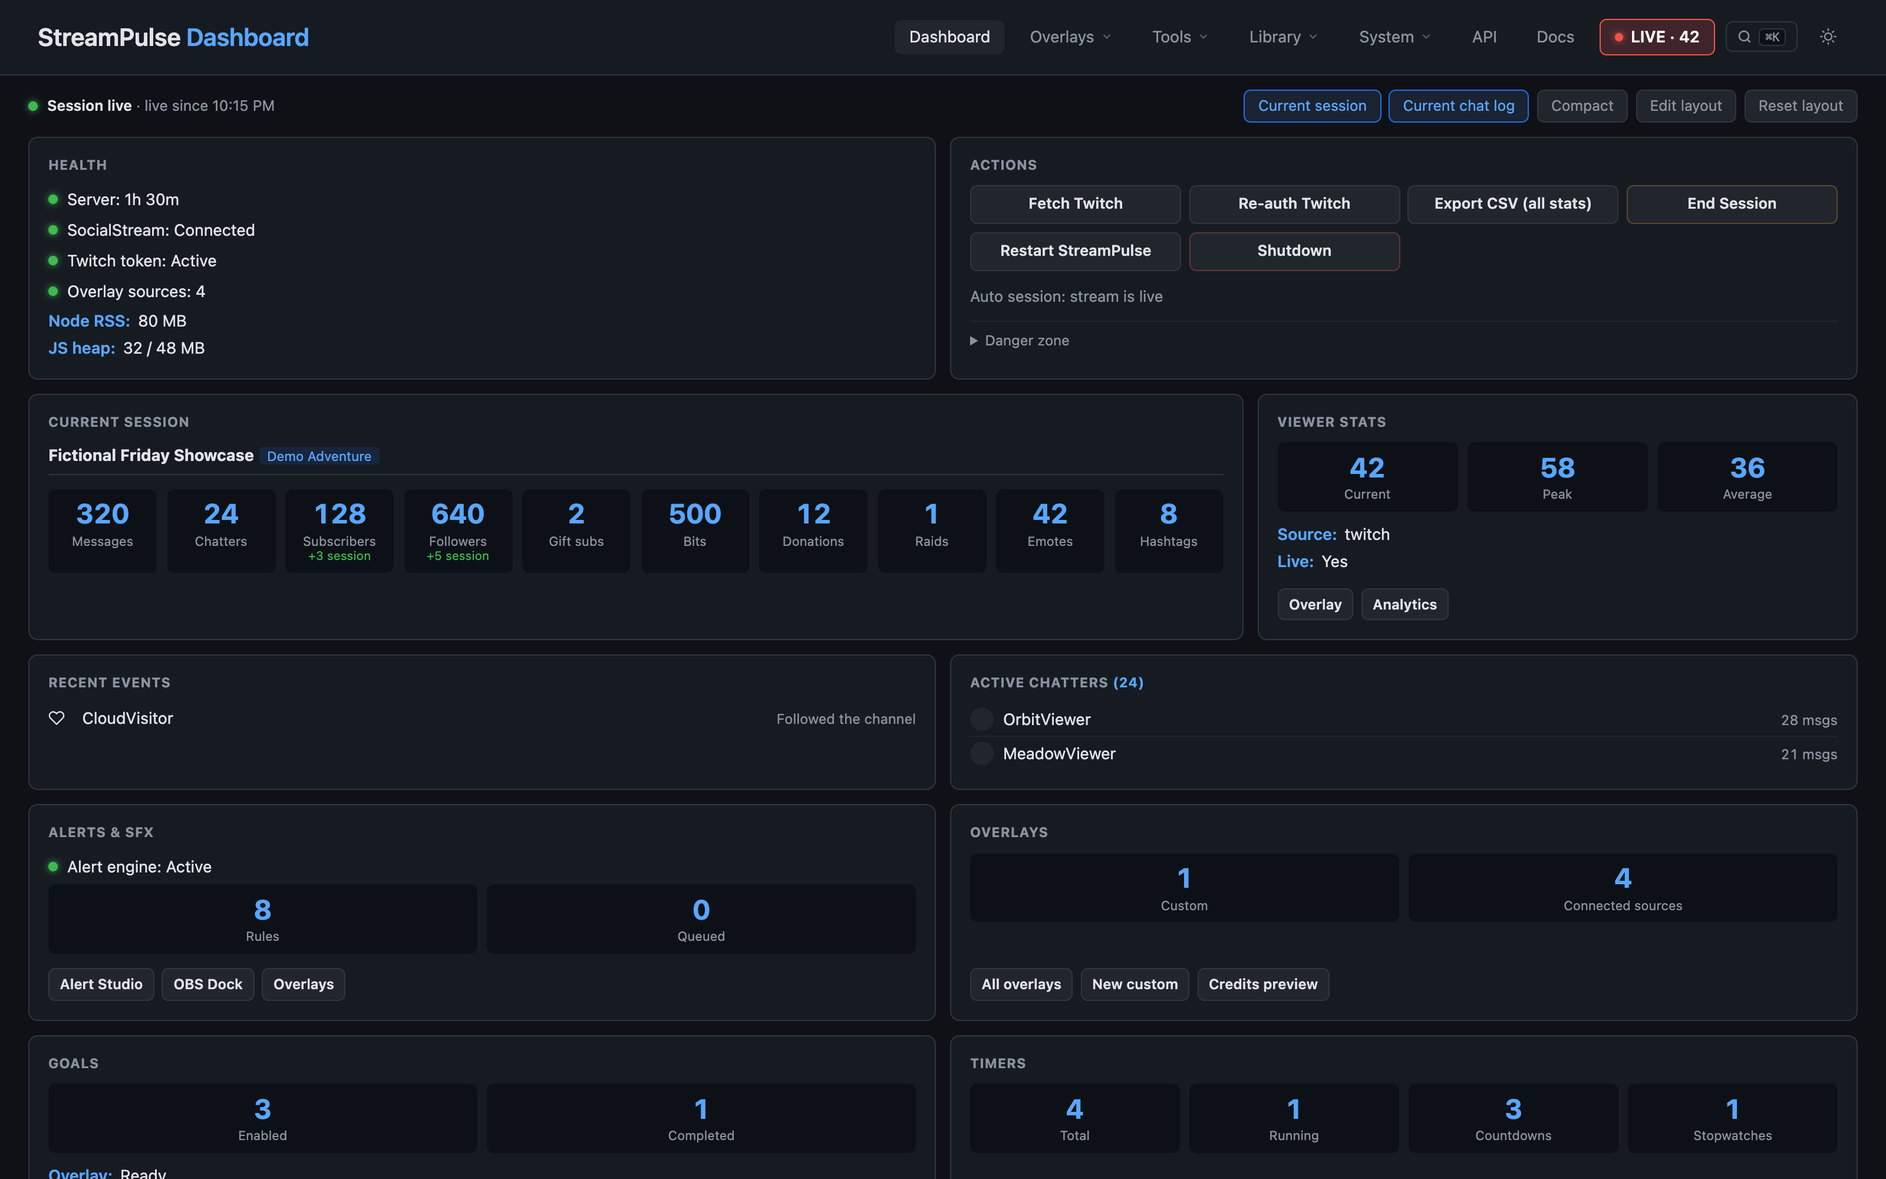
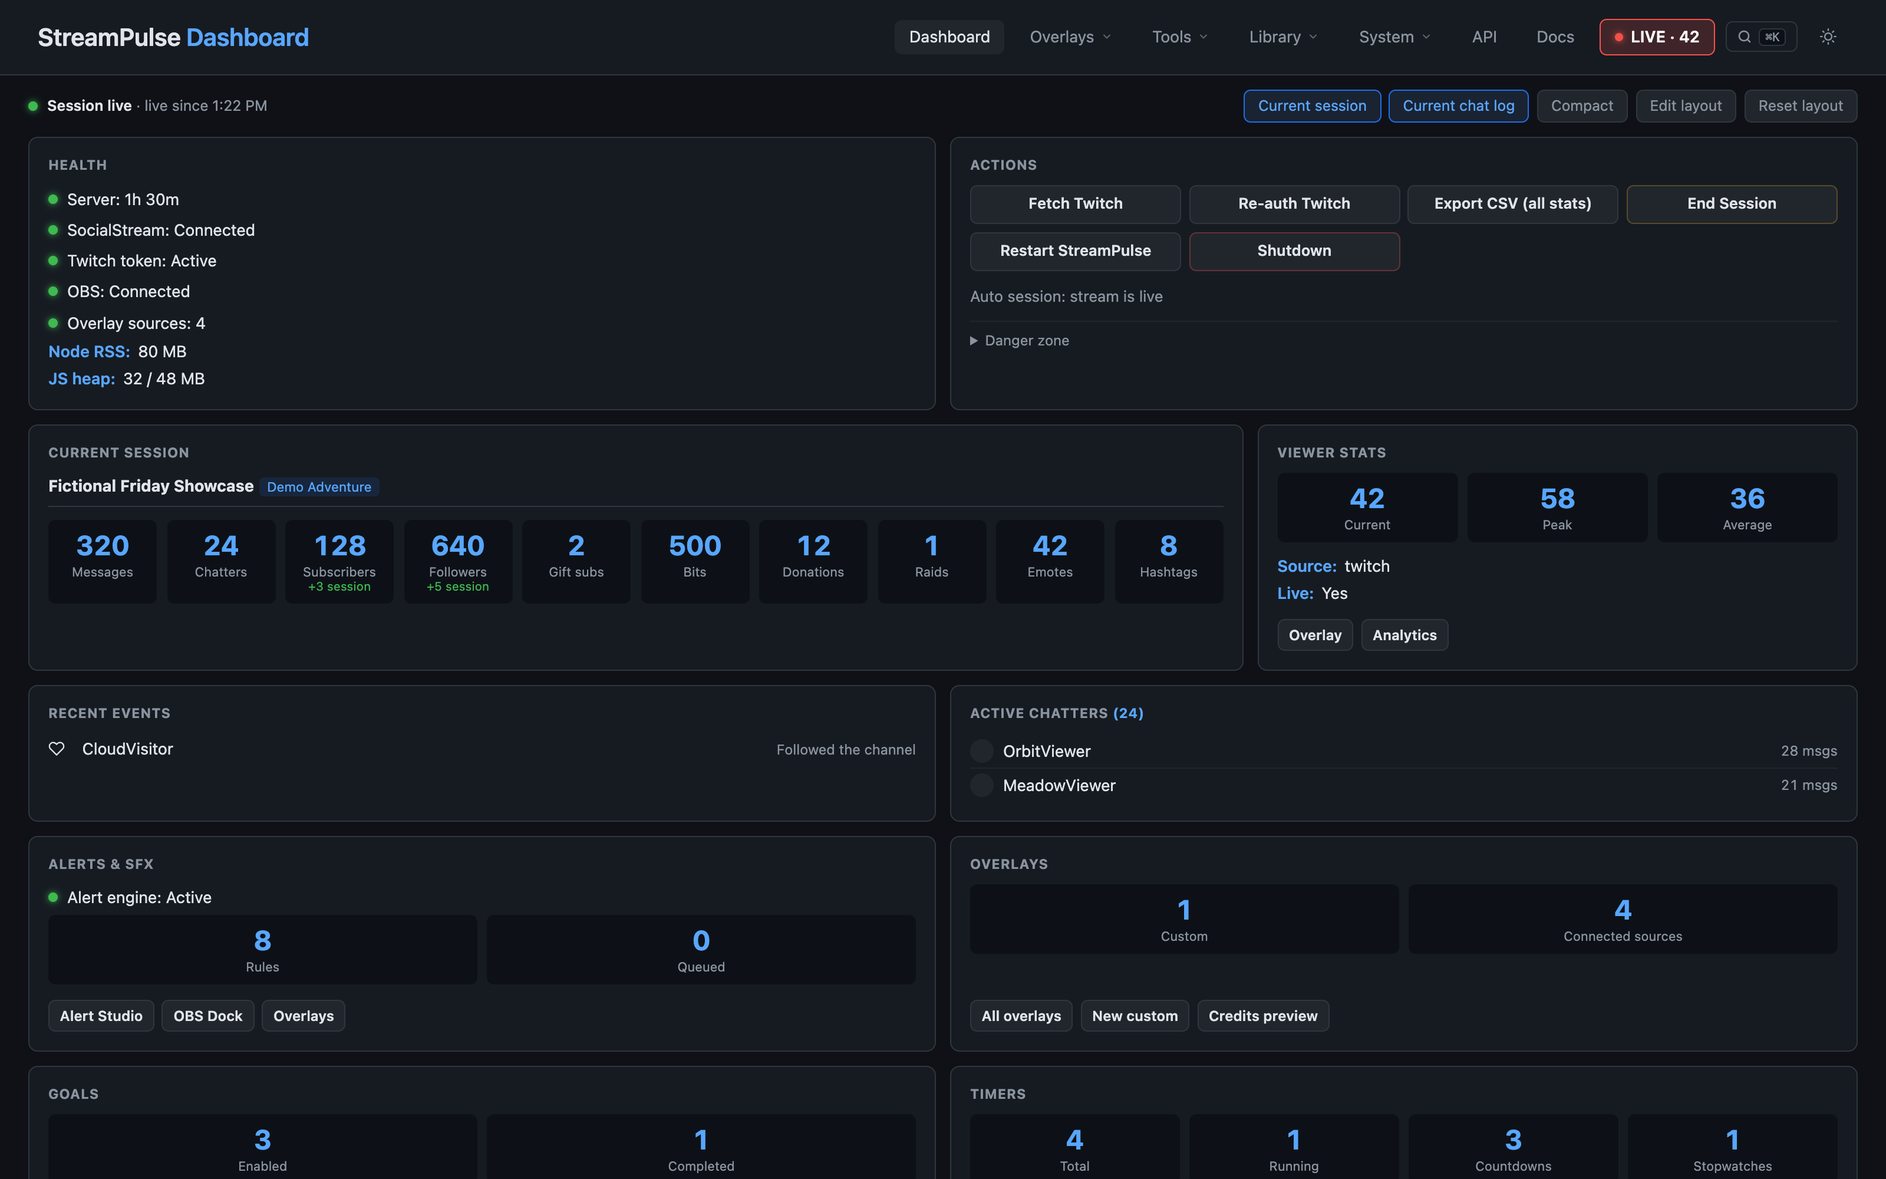
feat: add OBS health and refined speaker visibility controls
Show the enabled global OBS connection in dashboard Health. Add per-field speaker visibility switches with preserved drafts, boolean validation, and responsive input-inset positioning.

diff --git a/public/overlay-control.html b/public/overlay-control.html
@@ -29,17 +29,25 @@
         .status { font-size: .8rem; color: var(--text-muted); margin-top: .8rem; }
         .tabs { display:flex; gap:.5rem; margin-bottom:1rem; }
         [hidden] { display:none !important; }
-        .speaker-fields { display:grid; grid-template-columns:repeat(2, minmax(0, 1fr)); gap:.7rem; margin:.8rem 0; }
+        .speaker-fields { display:grid; grid-template-columns:repeat(2, minmax(0, 1fr)); gap:1rem .8rem; margin:1rem 0; }
         .speaker-fields label { display:grid; gap:.3rem; font-size:.8rem; color:var(--text-muted); }
         .speaker-fields .wide { grid-column:1 / -1; }
-        .speaker-fields input { width:100%; min-width:0; padding:.6rem; border:1px solid var(--border); border-radius:6px; background:var(--bg-inset); color:var(--text); font:inherit; }
+        .speaker-field { display:grid; gap:.4rem; min-width:0; align-content:start; font-size:.875rem; }
+        .speaker-input-row { position:relative; min-width:0; flex:1; }
+        .speaker-fields input:not([type="checkbox"]) { width:100%; min-width:0; padding:.6rem; border:1px solid var(--border); border-radius:6px; background:var(--bg-inset); color:var(--text); font:inherit; }
+        .speaker-input-row.has-toggle input:not([type="checkbox"]) { padding-right:52px; }
+        .speaker-fields .speaker-toggle { position:absolute; right:.3rem; top:50%; transform:translateY(-50%); display:flex; align-items:center; justify-content:center; width:40px; height:36px; cursor:pointer; }
+        .speaker-toggle input { appearance:none; width:28px !important; height:16px !important; border:1px solid var(--border); border-radius:999px; background:var(--bg-inset); cursor:pointer; position:relative; flex:none; }
+        .speaker-toggle input::before { content:''; position:absolute; width:10px; height:10px; top:2px; left:2px; border-radius:50%; background:var(--text-muted); }
+        .speaker-toggle input:checked { background:var(--accent); border-color:var(--accent); }
+        .speaker-toggle input:checked::before { transform:translateX(12px); background:var(--bg-page); }
+        .speaker-toggle input:focus-visible { outline:2px solid var(--accent); outline-offset:3px; }
         .asset-row { display:flex; gap:.5rem; }
-        .asset-row input { flex:1; }
         .asset-row .btn { flex:none; padding:.5rem .7rem; }
         .hint { font-size:.8rem; color:var(--text-muted); margin:.5rem 0; }
         .speaker-card { margin-bottom:.8rem; }
         .speaker-card summary { cursor:pointer; font-weight:600; }
-        @media (max-width:400px) { .speaker-fields { grid-template-columns:1fr; } }
+        @media (max-width:520px) { .speaker-fields { grid-template-columns:1fr; } }
     </style>
 </head>
 <body>
@@ -89,19 +97,30 @@
         const config = badge.speakerBadge || {}, speaker = config.speaker || {};
         return { name: speaker.name || '', handle: speaker.handle || '', pronouns: speaker.pronouns || '',
             avatarSrc: speaker.avatarSrc || '', statusText: speaker.callIn?.statusText || '', location: speaker.callIn?.location || '',
+            showHandle: speaker.showHandle !== false, showPronouns: speaker.showPronouns !== false,
+            showAvatar: speaker.showAvatar !== false, callInEnabled: speaker.callIn?.enabled === true,
+            showLocation: speaker.callIn?.showLocation !== false,
             inputName: config.audio?.inputName || 'Mic/Aux' };
+    }
+
+    function readSpeakerForm(form) {
+        const values = Object.fromEntries(new FormData(form));
+        for (const key of ['showHandle', 'showPronouns', 'showAvatar', 'callInEnabled', 'showLocation']) {
+            values[key] = form.elements[key].checked;
+        }
+        return values;
     }
 
     function drawSpeakers() {
         const open = new Set([...document.querySelectorAll('[data-speaker][open]')].map(card => card.dataset.speaker));
         $('speaker-badges').innerHTML = speakers.length ? speakers.map((badge, index) => {
             const values = drafts.get(badge.id) || speakerValues(badge);
-            const fields = [['name', 'Display name', 80], ['handle', 'Handle / subtitle', 60], ['pronouns', 'Pronouns', 30],
-                ['avatarSrc', 'Avatar URL / library asset', 500], ['statusText', 'Call-in status', 40], ['location', 'Caller location', 80], ['inputName', 'OBS audio source', 100]];
+            const fields = [['name', 'Display name', 80], ['handle', 'Handle / subtitle', 60, 'showHandle'], ['pronouns', 'Pronouns', 30, 'showPronouns'],
+                ['avatarSrc', 'Avatar URL / library asset', 500, 'showAvatar'], ['statusText', 'Call-in status', 40, 'callInEnabled'], ['location', 'Caller location', 80, 'showLocation'], ['inputName', 'OBS audio source', 100]];
             return `<details class="msg speaker-card" data-speaker="${esc(badge.id)}" ${open.has(badge.id) || index === 0 ? 'open' : ''}>
                 <summary>${esc(badge.name)}${badge.page ? ` <small>(${esc(badge.page)})</small>` : ''}</summary>
-                <form data-speaker-form="${esc(badge.id)}"><div class="speaker-fields">${fields.map(([key, label, max]) =>
-                    `<label class="${['avatarSrc', 'inputName'].includes(key) ? 'wide' : ''}">${label}${key === 'avatarSrc' ? '<span class="asset-row">' : ''}<input name="${key}" value="${esc(values[key])}" maxlength="${max}" ${key === 'inputName' ? 'list="speaker-audio-inputs"' : ''}>${key === 'avatarSrc' ? '<button class="btn" type="button" data-speaker-avatar>Library...</button></span>' : ''}</label>`).join('')}</div>
+                <form data-speaker-form="${esc(badge.id)}"><div class="speaker-fields">${fields.map(([key, label, max, toggle]) =>
+                    `<div class="speaker-field ${['avatarSrc', 'inputName'].includes(key) ? 'wide' : ''}"><label for="${esc(badge.id)}-${key}">${label}</label>${key === 'avatarSrc' ? '<div class="asset-row">' : ''}<div class="speaker-input-row${toggle ? ' has-toggle' : ''}"><input id="${esc(badge.id)}-${key}" name="${key}" value="${esc(values[key])}" maxlength="${max}" ${key === 'inputName' ? 'list="speaker-audio-inputs"' : ''}>${toggle ? `<label class="speaker-toggle" title="Show ${label.toLowerCase()}"><input type="checkbox" role="switch" name="${toggle}" aria-label="Show ${label.toLowerCase()}" ${values[toggle] ? 'checked' : ''}></label>` : ''}</div>${key === 'avatarSrc' ? '<button class="btn" type="button" data-speaker-avatar>Library...</button></div>' : ''}</div>`).join('')}</div>
                 <button class="btn primary" type="submit">Save badge</button>
                 <span class="hint" data-speaker-status>${dirtySpeakers.has(badge.id) ? 'Unsaved changes' : ''}</span>
                 <p class="hint" data-speaker-meter style="font-variant-numeric:tabular-nums;min-height:2.5em;">Waiting for this source's live audio meter.</p></form></details>`;
@@ -130,7 +149,7 @@
     document.addEventListener('input', event => {
         const form = event.target.closest('[data-speaker-form]');
         if (!form) return;
-        drafts.set(form.dataset.speakerForm, Object.fromEntries(new FormData(form)));
+        drafts.set(form.dataset.speakerForm, readSpeakerForm(form));
         dirtySpeakers.add(form.dataset.speakerForm);
         form.querySelector('[data-speaker-status]').textContent = 'Unsaved changes';
     });
@@ -138,13 +157,14 @@
         const form = event.target.closest('[data-speaker-form]');
         if (!form) return;
         event.preventDefault();
-        const element = form.dataset.speakerForm, values = Object.fromEntries(new FormData(form));
+        const element = form.dataset.speakerForm, values = readSpeakerForm(form);
         const button = form.querySelector('button[type="submit"]');
         button.disabled = true;
         try {
             const response = await fetch(speakersApi, { method:'PATCH', headers:{ 'Content-Type':'application/json' }, body:JSON.stringify({
                 element, speaker:{ name:values.name, handle:values.handle, pronouns:values.pronouns, avatarSrc:values.avatarSrc,
-                    callIn:{ statusText:values.statusText, location:values.location } }, audio:{ inputName:values.inputName }
+                    showAvatar:values.showAvatar, showHandle:values.showHandle, showPronouns:values.showPronouns,
+                    callIn:{ enabled:values.callInEnabled, showLocation:values.showLocation, statusText:values.statusText, location:values.location } }, audio:{ inputName:values.inputName }
             }) });
             const data = await response.json();
             if (!response.ok) throw new Error(data.error || 'Could not save badge');

diff --git a/public/dashboard.html b/public/dashboard.html
@@ -71,6 +71,7 @@
         .stat .sub { font-size: .64rem; color: var(--success); min-height: .9em; }
 
         .indicator { display: flex; align-items: center; gap: .5rem; padding: .22rem 0; }
+        .indicator[hidden] { display: none; }
         .dot { width: 8px; height: 8px; border-radius: 50%; flex-shrink: 0; background: var(--border-strong); }
         .dot.green { background: var(--success); box-shadow: 0 0 6px var(--success); }
         .dot.red { background: var(--danger); box-shadow: 0 0 6px var(--danger); }
@@ -147,6 +148,7 @@
             <div class="indicator"><div class="dot" id="dot-server"></div><span>Server: <span id="uptime">—</span></span></div>
             <div class="indicator"><div class="dot" id="dot-ssn"></div><span>SocialStream: <span id="ssn-status">—</span></span></div>
             <div class="indicator"><div class="dot" id="dot-twitch"></div><span>Twitch token: <span id="twitch-status">—</span></span></div>
+            <div class="indicator" id="obs-health" hidden><div class="dot" id="dot-obs"></div><span>OBS: <span id="obs-status">—</span></span></div>
             <div class="indicator"><div class="dot" id="dot-ws"></div><span>Overlay sources: <span id="ws-clients">0</span></span></div>
             <div class="detail-line" title="Resident Node process memory, including heap, native allocations and buffers. This is not Safari memory."><strong>Node RSS:</strong> <span id="memory">—</span></div>
             <div class="detail-line" title="Live JavaScript allocations / currently allocated V8 heap. RSS need not shrink immediately after garbage collection."><strong>JS heap:</strong> <span id="memory-heap">—</span></div>
@@ -635,6 +637,11 @@
         else { setDot('dot-ssn', 'yellow'); setText('ssn-status', 'Not configured'); }
         setDot('dot-twitch', data.twitch?.hasToken ? 'green' : 'red');
         setText('twitch-status', data.twitch?.hasToken ? 'Active' : 'Not authenticated');
+        const obs = data.obs || {};
+        $('obs-health').hidden = !(obs.enabled ?? data.modules?.obs);
+        setDot('dot-obs', obs.connected ? 'green' : obs.connecting ? 'yellow' : 'red');
+        setText('obs-status', obs.connected ? 'Connected' : obs.connecting ? 'Connecting…' : 'Disconnected');
+        $('obs-status').title = !obs.connected && obs.lastError ? obs.lastError : '';
         setDot('dot-ws', data.overlayClients > 0 ? 'green' : 'yellow');
         setText('ws-clients', data.overlayClients ?? 0);
         setText('overlay-clients', data.overlayClients ?? 0);

diff --git a/server/routes/overlays.js b/server/routes/overlays.js
@@ -821,10 +821,18 @@ function createOverlayRoutes({
                         target[key] = source[key];
                     }
                 };
+                const copyBooleans = (source, target, fields) => {
+                    for (const key of fields) if (source?.[key] !== undefined) {
+                        if (typeof source[key] !== 'boolean') throw new Error(`${key} must be a boolean`);
+                        target[key] = source[key];
+                    }
+                };
                 copyStrings(body.speaker, speaker, ['name', 'handle', 'pronouns', 'avatarSrc']);
+                copyBooleans(body.speaker, speaker, ['showAvatar', 'showHandle', 'showPronouns']);
                 if (body.speaker?.callIn !== undefined) {
                     speaker.callIn = { ...speaker.callIn };
                     copyStrings(body.speaker.callIn, speaker.callIn, ['statusText', 'location']);
+                    copyBooleans(body.speaker.callIn, speaker.callIn, ['enabled', 'showLocation']);
                 }
                 copyStrings(body.audio, audio, ['inputName']);
                 const overlay = normalizeCustomOverlay({

diff --git a/docs/custom-overlays.md b/docs/custom-overlays.md
@@ -41,7 +41,8 @@ StreamPulse includes an audio-reactive **Speaker Badge** layer (`type: "speaker-
   - **Avatar scaling**: **Speaker Appearance → Avatar size** scales the whole avatar (50–200%); **Icon size** independently scales the fallback person/phone drawing (50–180%). Images use Avatar size only. Auto-size gives avatars more of the available space without letting them displace the name; text fitting no longer shrinks the avatar along with its font. Avatar Only can grow outside the layer box.
   - **Sizing & fonts**: **Typography → Auto-size to fill badge** automatically grows or shrinks text to fill the fixed badge dimensions, overriding manual font size. Turn it off to choose a maximum name size while retaining overflow protection. Name, subtitle and pill fonts have separate selectors, including uploaded fonts; secondary fonts inherit the name font by default.
   - **Padding**: **Layout → Horizontal/Vertical padding** sets the content inset. Vertical cards default to 14 px above and below the content. Padding remains fixed when automatic sizing changes text or effects.
-- **Quick speaker changes**: Use **Control** in either overlay list, then choose **Speakers** (`/overlay-control.html?id=<overlay-id>`). Speaker badges expose this button even without pages or other controllable layers. Each badge has a compact form for name, handle/subtitle, pronouns, avatar URL/library asset, call-in status/location and OBS audio source. Use **Library...** beside the avatar to search image assets, upload from your computer, or choose **No image**; you can still paste a URL/path. Selection remains a draft until you save the badge. Save each badge to persist its data and update connected overlays immediately; layout, styling, gate settings and other layers are preserved. Audio sources come from OBS, with manual source names supported while disconnected. Use **Refresh badges & audio sources** to rediscover inputs. Call-in fields display only when enabled in the editor. The controller remembers its active tab and preserves unsaved speaker drafts during live page changes.
+- **Quick speaker changes**: Use **Control** in either overlay list, then choose **Speakers** (`/overlay-control.html?id=<overlay-id>`). Speaker badges expose this button even without pages or other controllable layers. Each badge has a compact form for name, handle/subtitle, pronouns, avatar URL/library asset, call-in status/location and OBS audio source. Use **Library...** beside the avatar to search image assets, upload from your computer, or choose **No image**; you can still paste a URL/path. Selection remains a draft until you save the badge. Save each badge to persist its data and update connected overlays immediately; layout, styling, gate settings and other layers are preserved. Audio sources come from OBS, with manual source names supported while disconnected. Use **Refresh badges & audio sources** to rediscover inputs. The controller remembers its active tab and preserves unsaved speaker drafts during live page changes.
+- **Per-field visibility**: **Show** switches beside handle/subtitle, pronouns, avatar, call-in status and caller location retain each field's content when hidden. Changes remain drafts until **Save badge**; they persist per badge and update connected overlays. Call-in status enables/disables call-in mode; caller location still follows the selected layout and call-in settings.
 - **Audio Reactions & Visualizers**:
   - **Border & Glow Highlighting**: Active border color and custom glow spread that illuminate when the speaker talks.
   - **Motion Pop**: Subtle scale pop animation triggered by speech onset.

diff --git a/docs/api-reference.md b/docs/api-reference.md
@@ -23,7 +23,7 @@ Session/chat/highlight outputs and exports apply the current combined ban list r
 | `PATCH /api/custom-overlays/:id/speakers` | Persist selected badge fields and broadcast the existing `custom-overlay-update` event; returns the refreshed speaker list |
 | `GET /api/obs/audio-inputs` | OBS audio-source names with connection/enabled status |
 
-Example patch: `{ "element": "guest-badge", "speaker": { "name": "Fictional Guest", "handle": "@fictional", "pronouns": "they/them", "avatarSrc": "/custom-overlay-assets/guest.png", "callIn": { "statusText": "ON THE LINE", "location": "Remote studio" } }, "audio": { "inputName": "Guest Audio" } }`. All profile fields are optional text values. Only identity, call-in text/location and input name are patched; appearance, visibility, sensitivity, other badges and layers remain unchanged. The endpoint uses overlay revision history and storage; this is not a temporary runtime override. Unknown overlays/non-badge element IDs return `404`, invalid field types return `400`.
+Example patch: `{ "element": "guest-badge", "speaker": { "name": "Fictional Guest", "handle": "@fictional", "pronouns": "they/them", "avatarSrc": "/custom-overlay-assets/guest.png", "showHandle": false, "callIn": { "enabled": true, "statusText": "ON THE LINE", "location": "Remote studio", "showLocation": true } }, "audio": { "inputName": "Guest Audio" } }`. Profile text fields are optional strings. Visibility fields `speaker.showAvatar`, `showHandle`, `showPronouns`, `callIn.enabled` and `callIn.showLocation` accept booleans; omitted fields retain their current values, and hiding content does not clear it. Appearance, sensitivity, other badges and layers remain unchanged. The endpoint uses overlay revision history and storage; this is not a temporary runtime override. Unknown overlays/non-badge element IDs return `404`, invalid field types return `400`.
 
 See [Speaker Badge setup and controller](custom-overlays.md#voice-reactive-speaker-badges--call-in-banners).
 

diff --git a/docs/changelog.md b/docs/changelog.md
@@ -11,7 +11,8 @@ All notable changes to StreamPulse are documented in this file. The format is ba
 ## [Unreleased]
 
 ### Added
-- Speaker badges: OBS voice reactions, responsive auto-sizing, separate fonts, avatar/icon scaling, and quick profile/audio controls.
+- Dashboard Health: OBS connection status when the global connection is enabled.
+- Speaker badges: OBS voice reactions, responsive auto-sizing, separate fonts, avatar/icon scaling, and quick profile/audio/visibility controls.
 - Native Twitch EventSub Raids & Polling Optimization: Added native `channel.raid` EventSub push subscription for real-time incoming raid ingestion, alerts, and chatbot auto-shoutouts. Automatically throttles Twitch REST polling loops for polls, category/stream info, and session lifecycle when EventSub is connected, slashing redundant REST requests by >90%.
 - Chatbot Performance & Storage Modularity: Decoupled quote library into dedicated `data/quotes.json` with automatic migration to prevent full quote re-serialization on settings or command updates; implemented pre-compiled regex trigger matchers and single-pass token formatting fast-paths.
 - Server Cleanup: Removed unreferenced `MIME_TYPES` dictionary from `server.js` in favor of cascading static router.

diff --git a/docs/features.md b/docs/features.md
@@ -38,7 +38,7 @@ Some nights need a polished scene. Others need a quick countdown or a way to let
 
 Use OBS docks for your studios, or connect **[Bitfocus Companion](companion.md)** to put common actions on a Stream Deck.
 
-The dashboard brings connection health and show activity together at a glance. It recovers when a connection returns, while hidden pages pause background status checks so an idle workspace does less work.
+The dashboard brings connection health and show activity together at a glance. When the global OBS connection is enabled, **Health** shows whether OBS is connected, connecting, or disconnected, independently of the Scene Sync module. It recovers when a connection returns, while hidden pages pause background status checks so an idle workspace does less work.
 
 ## Fits alongside the tools you already use
 
